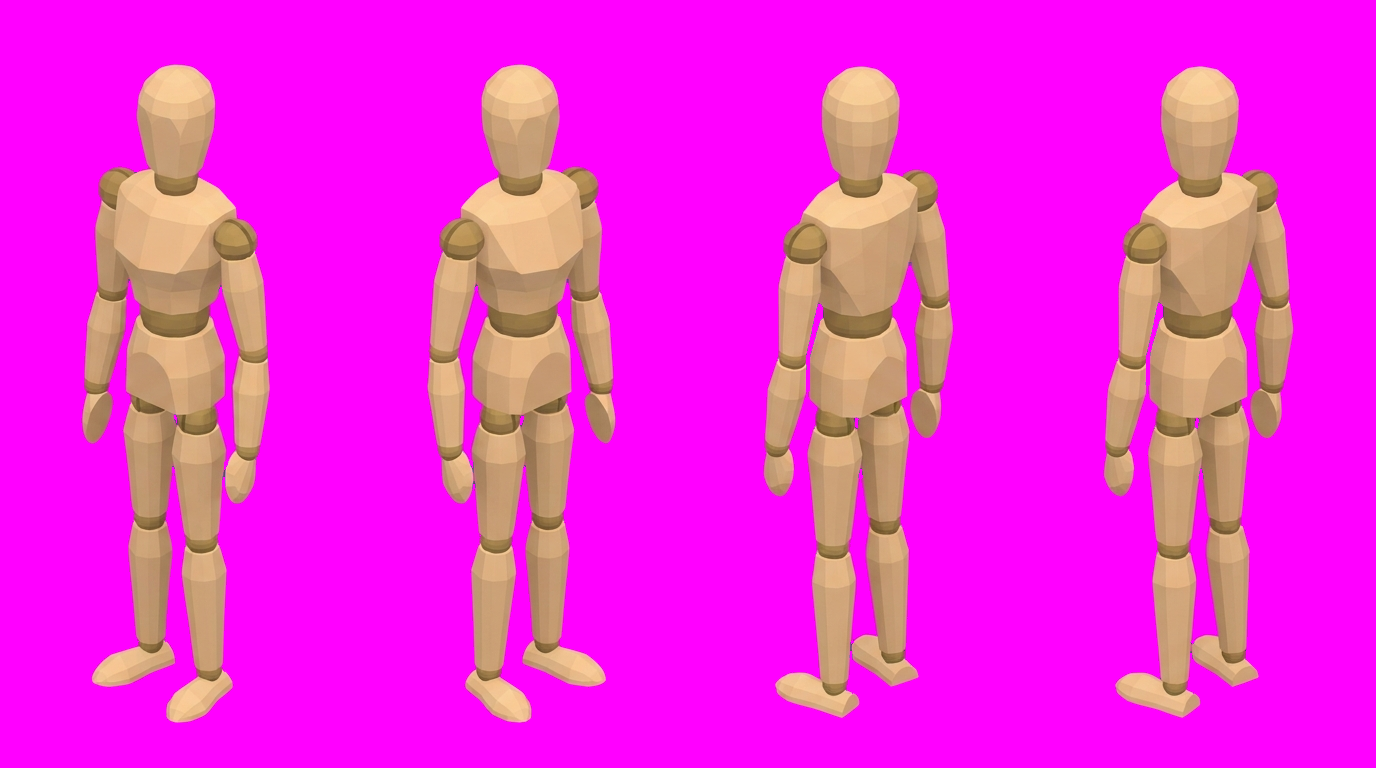
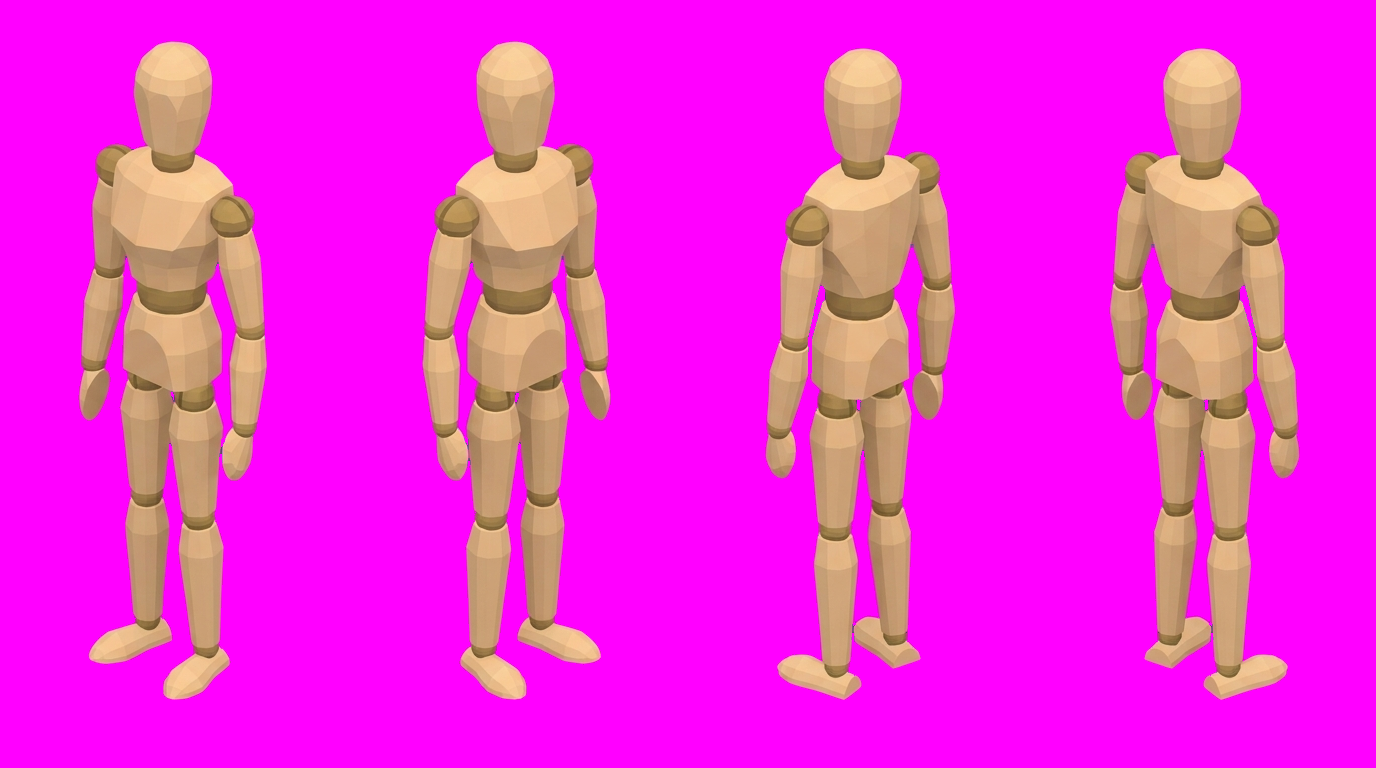
Fix facing away directions in isometric standing reference guide

diff --git a/packages/server/test/art.test.ts b/packages/server/test/art.test.ts
@@ -96,7 +96,7 @@ describe('the Art tab', () => {
       { id: 'four-legged', name: 'Four-legged, 2 heads tall' },
       { id: 'six-legged', name: 'Six-legged crawler' },
     ]);
-  });
+  }, 30_000);
 
   it('paints a shipped building picture again with the Owner\'s words, logs it, and serves it over the shipped one', async () => {
     const { base, store, painter } = await start({ shippedArt: await shippedManifest(await tmp()), anchorDir });
